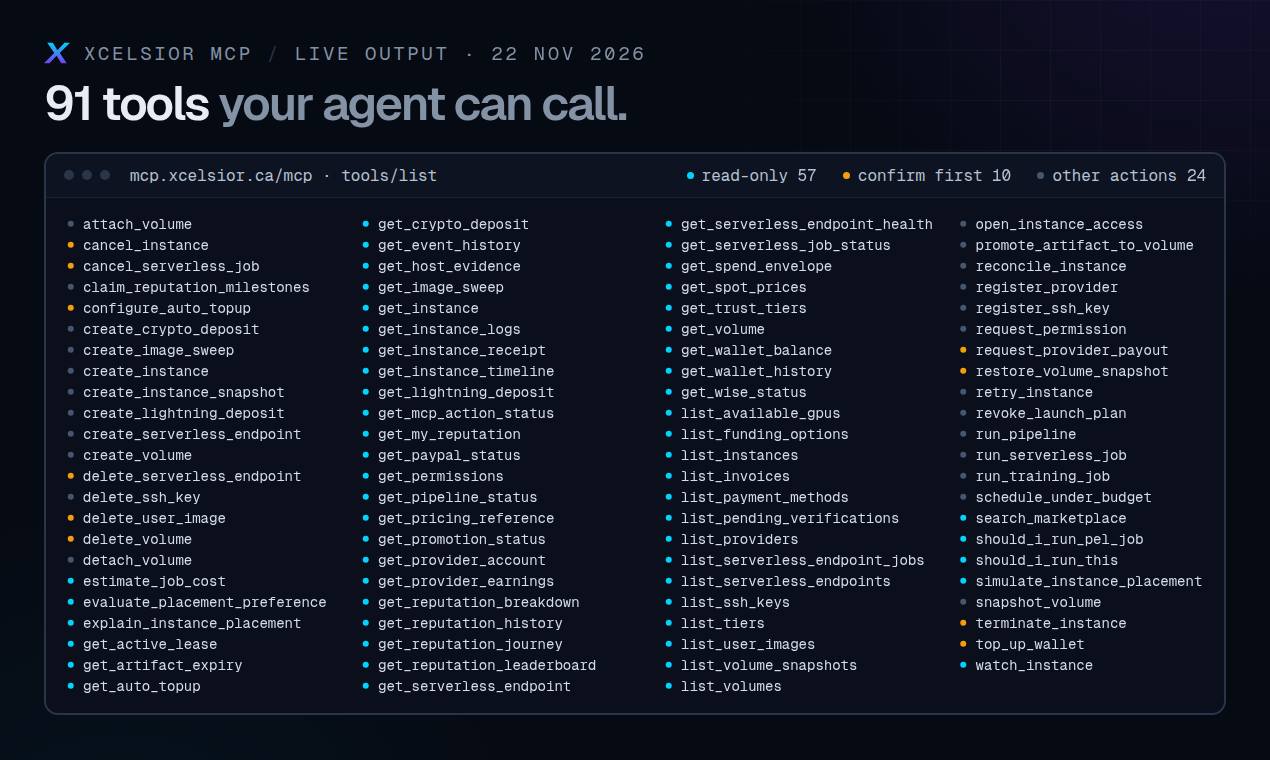
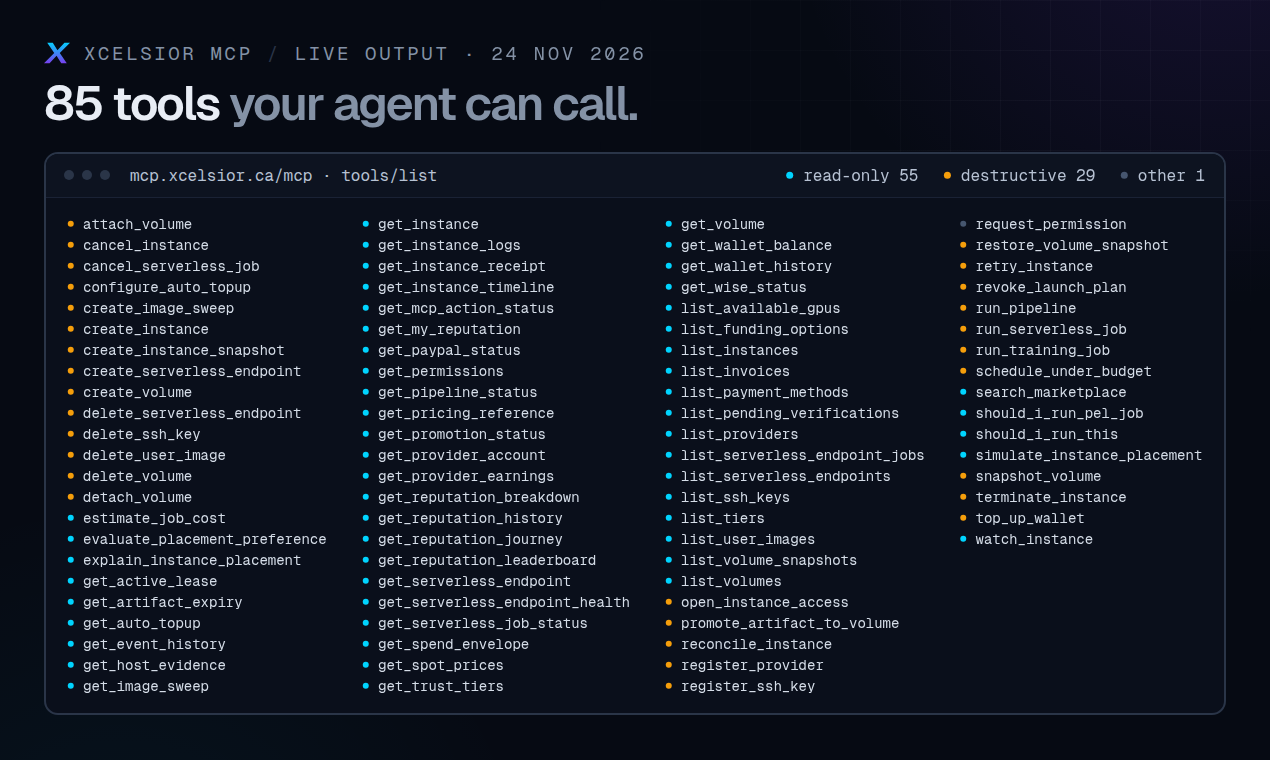
fix(brand): re-cut the launch-kit images for the 85-tool surface
The X header, GitHub preview, gallery 4 and tools/list screenshot drew 91
tools. They now draw 85, and the screenshot lists the current tools.

The screenshot's legend said "confirm first 10". Since every customer write
is marked destructive, 29 tools carry destructiveHint but only 14 take
`confirm`, so the label would have been false. It now says what the
annotation says: read-only 55, destructive 29, other 1.

The re-cut script also accepted a one-digit group count only as an error,
and wrote the print date as the date the list was checked against live
even without --live. baked-in.json now records that check as still owed.

diff --git a/tests/test_release_facts.py b/tests/test_release_facts.py
@@ -179,18 +179,19 @@ def test_version_literals_live_only_in_their_manifests() -> None:
 
 
 def test_launch_kit_images_show_the_current_count() -> None:
-    """Pixels cannot read a file. When this fails, re-cut the images named in
-    baked-in.json from the design canvas, then update the value there."""
+    """Pixels cannot read a file. When this fails, run
+    api/frontend/scripts/build-mcp-launch-kit.mjs, which re-cuts the images
+    named in baked-in.json and updates the values there."""
     baked = json.loads((LAUNCH_KIT / "baked-in.json").read_text())
     tools = json.loads((ROOT / "api/mcp/tool-surface.json").read_text())["tools"]
     assert baked["mcpToolCount"]["value"] == len(tools), baked["mcpToolCount"]["images"]
     read_only = sum(1 for t in tools if t["annotations"].get("readOnlyHint"))
-    confirm = sum(1 for t in tools if t["annotations"].get("destructiveHint"))
+    destructive = sum(1 for t in tools if t["annotations"].get("destructiveHint"))
     split = baked["toolsListSplit"]
-    assert (split["readOnly"], split["previewThenConfirm"], split["otherActions"]) == (
+    assert (split["readOnly"], split["destructive"], split["other"]) == (
         read_only,
-        confirm,
-        len(tools) - read_only - confirm,
+        destructive,
+        len(tools) - read_only - destructive,
     ), split["images"]
     for section in ("mcpToolCount", "toolsListSplit", "capturedOnly"):
         for image in baked[section]["images"]:

diff --git a/api/frontend/public/brand-system/assets/social/README.md b/api/frontend/public/brand-system/assets/social/README.md
@@ -72,7 +72,11 @@ the Product Hunt package ("Your agent rents the GPU. You approve the bill."). Th
 MCP tool count is drawn into the X header, GitHub preview, gallery 4 and
 `screenshots/mcp-tools-list`. [`mcp-launch/baked-in.json`](mcp-launch/baked-in.json)
 records the value those images show, and `tests/test_release_facts.py` fails when the
-published surface moves away from it: re-cut the images, then update that file.
+published surface moves away from it. Re-cut them with
+`node scripts/build-mcp-launch-kit.mjs --date "DD MON YYYY" [--live tools.json]`
+(from `api/frontend`), which redraws those regions and updates that file. Pass `--live`
+with a saved `tools/list` from the deployed service; without it, `baked-in.json` records
+that the list has not been checked against live yet.
 
 These images are seen far smaller than their pixel size: X shows the 1500px header
 at about 600px wide on desktop and 390px on a phone (40% / 26%), a link preview or
@@ -106,7 +110,7 @@ appear, so they stay accurate while supply changes.
 |---|---|
 | `mcp-handshake-oauth-1270x760` | `/mcp/health` (server and protocol version as captured; see `baked-in.json`), the 401 + `WWW-Authenticate` OAuth challenge on `initialize`, and the protected-resource metadata |
 | `mcp-registry-listing-1270x760` | The official MCP registry entry `io.github.aabiro/xcelsior`: streamable-http remote, status active |
-| `mcp-tools-list-1270x760` | Every tool from the live `tools/list`, split into read-only, preview-then-confirm and other actions (counts in `baked-in.json`) |
+| `mcp-tools-list-1270x760` | Every published tool, split by annotation into read-only, destructive (`destructiveHint`) and other (counts in `baked-in.json`). Redrawn from `api/mcp/tool-surface.json` on 24 Nov 2026; checked against live only when re-cut with `--live` |
 
 ## Runtime copy
 
